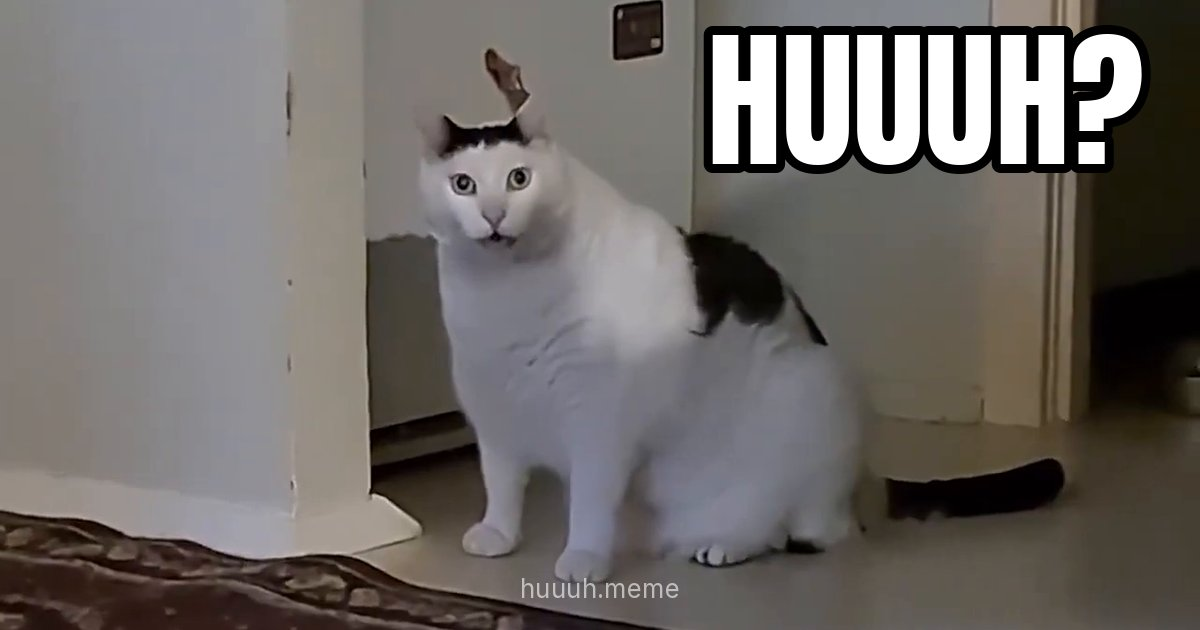
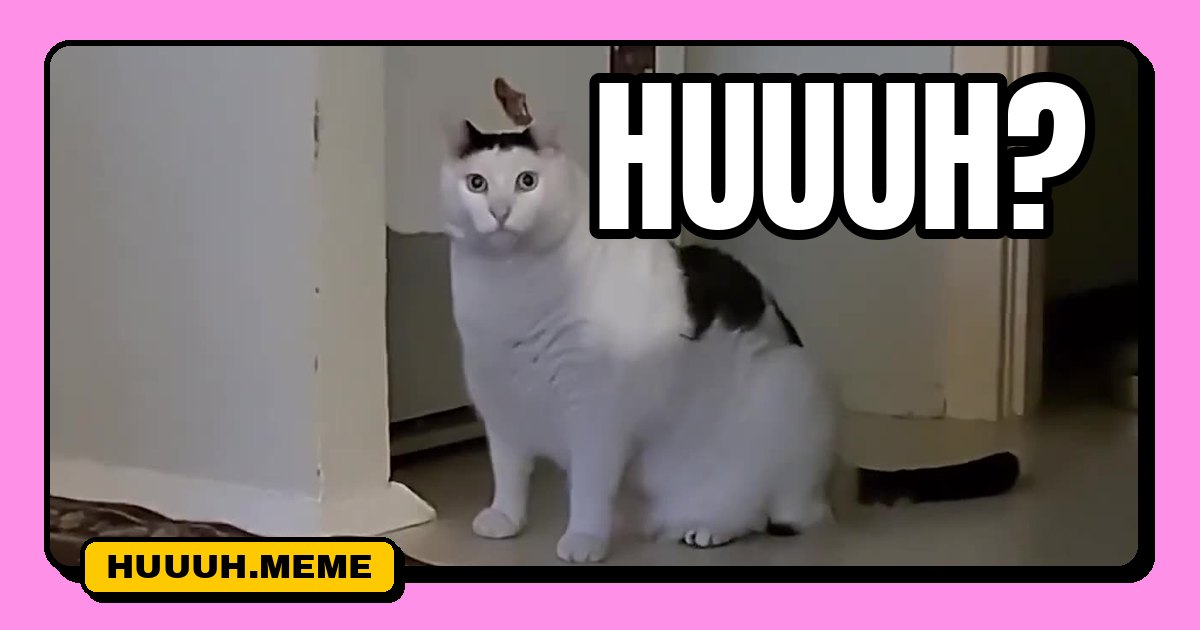
Link previews: Blocks-style og.jpg (1200x630) and full OG/Twitter tags on /, /p, /lab
og.jpg: Ben in a black sticker frame on the Gumroad pink, the Anton HUUUH?
caption and a yellow HUUUH.MEME chip, 61 KB. og:url / og:image use the
canonical https://huuuh.meme (og.jpg?v=2 so scrapers refetch); the same file
is served on dev at /og.jpg. Adds og:url for /p, image type/alt,
twitter:title/description/image, and OG tags + apple-touch-icon on the lab.

diff --git a/public/lab.html b/public/lab.html
@@ -7,7 +7,23 @@
   <meta name="robots" content="noindex" />
   <meta name="theme-color" content="#FF90E8" />
   <meta name="apple-mobile-web-app-status-bar-style" content="black-translucent" />
+  <meta property="og:type" content="website" />
+  <meta property="og:site_name" content="huuuh.meme" />
+  <meta property="og:title" content="HUUUH? lab" />
+  <meta property="og:description" content="Tuning lab for the huh presets." />
+  <meta property="og:url" content="https://huuuh.meme/lab" />
+  <meta property="og:image" content="https://huuuh.meme/og.jpg?v=2" />
+  <meta property="og:image:type" content="image/jpeg" />
+  <meta property="og:image:width" content="1200" />
+  <meta property="og:image:height" content="630" />
+  <meta property="og:image:alt" content="Ben the Huh? Cat with a big HUUUH? caption" />
+  <meta name="twitter:card" content="summary_large_image" />
+  <meta name="twitter:title" content="HUUUH? lab" />
+  <meta name="twitter:description" content="Tuning lab for the huh presets." />
+  <meta name="twitter:image" content="https://huuuh.meme/og.jpg?v=2" />
+  <meta name="twitter:image:alt" content="Ben the Huh? Cat with a big HUUUH? caption" />
   <link rel="icon" href="/favicon.ico?v=3" sizes="any" />
+  <link rel="apple-touch-icon" href="/apple-touch-icon.png?v=3" />
   <link rel="preload" href="fonts/archivo-black/archivo-black-latin.woff2" as="font" type="font/woff2" crossorigin />
   <link rel="stylesheet" href="css/theme.css?v=1" />
   <link rel="stylesheet" href="css/lab.css?v=5" />

diff --git a/public/index.html b/public/index.html
@@ -12,10 +12,16 @@
   <meta property="og:title" content="HUUUH?" />
   <meta property="og:description" content="Ben the Huh? Cat, on demand. Pick a mood or tune the huh, then send it." />
   <meta property="og:url" content="https://huuuh.meme/" />
-  <meta property="og:image" content="https://huuuh.meme/og.jpg" />
+  <meta property="og:image" content="https://huuuh.meme/og.jpg?v=2" />
+  <meta property="og:image:type" content="image/jpeg" />
   <meta property="og:image:width" content="1200" />
   <meta property="og:image:height" content="630" />
+  <meta property="og:image:alt" content="Ben the Huh? Cat with a big HUUUH? caption" />
   <meta name="twitter:card" content="summary_large_image" />
+  <meta name="twitter:title" content="HUUUH?" />
+  <meta name="twitter:description" content="Ben the Huh? Cat, on demand. Pick a mood or tune the huh, then send it." />
+  <meta name="twitter:image" content="https://huuuh.meme/og.jpg?v=2" />
+  <meta name="twitter:image:alt" content="Ben the Huh? Cat with a big HUUUH? caption" />
   <link rel="preload" href="fonts/anton/anton-latin.woff2" as="font" type="font/woff2" crossorigin />
   <link rel="icon" href="/favicon.ico?v=3" sizes="any" />
   <link rel="apple-touch-icon" href="/apple-touch-icon.png?v=3" />

diff --git a/public/p.html b/public/p.html
@@ -11,10 +11,17 @@
   <meta property="og:site_name" content="huuuh.meme" />
   <meta property="og:title" content="HUUUH?" />
   <meta property="og:description" content="Someone sent you a huh. Tap to play." />
-  <meta property="og:image" content="https://huuuh.meme/og.jpg" />
+  <meta property="og:url" content="https://huuuh.meme/p" />
+  <meta property="og:image" content="https://huuuh.meme/og.jpg?v=2" />
+  <meta property="og:image:type" content="image/jpeg" />
   <meta property="og:image:width" content="1200" />
   <meta property="og:image:height" content="630" />
+  <meta property="og:image:alt" content="Ben the Huh? Cat with a big HUUUH? caption" />
   <meta name="twitter:card" content="summary_large_image" />
+  <meta name="twitter:title" content="HUUUH?" />
+  <meta name="twitter:description" content="Someone sent you a huh. Tap to play." />
+  <meta name="twitter:image" content="https://huuuh.meme/og.jpg?v=2" />
+  <meta name="twitter:image:alt" content="Ben the Huh? Cat with a big HUUUH? caption" />
   <link rel="preload" href="fonts/anton/anton-latin.woff2" as="font" type="font/woff2" crossorigin />
   <link rel="icon" href="/favicon.ico?v=3" sizes="any" />
   <link rel="apple-touch-icon" href="/apple-touch-icon.png?v=3" />
